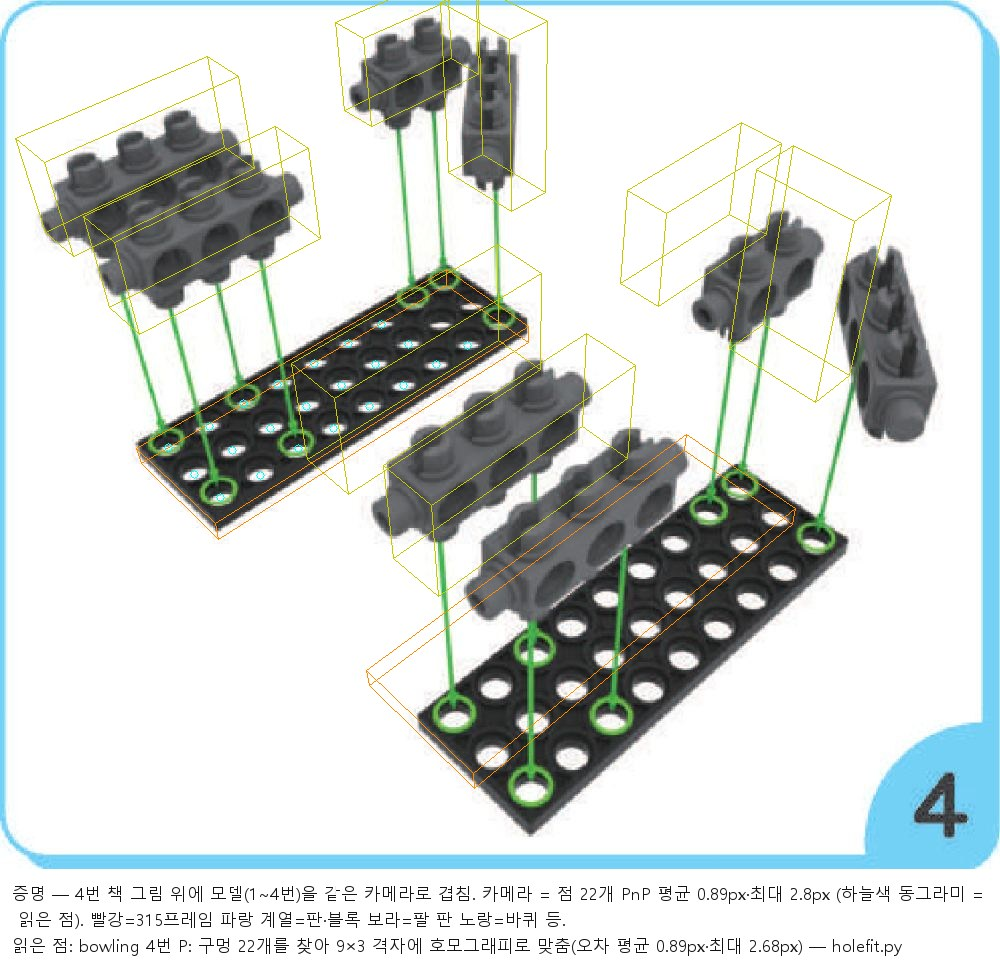
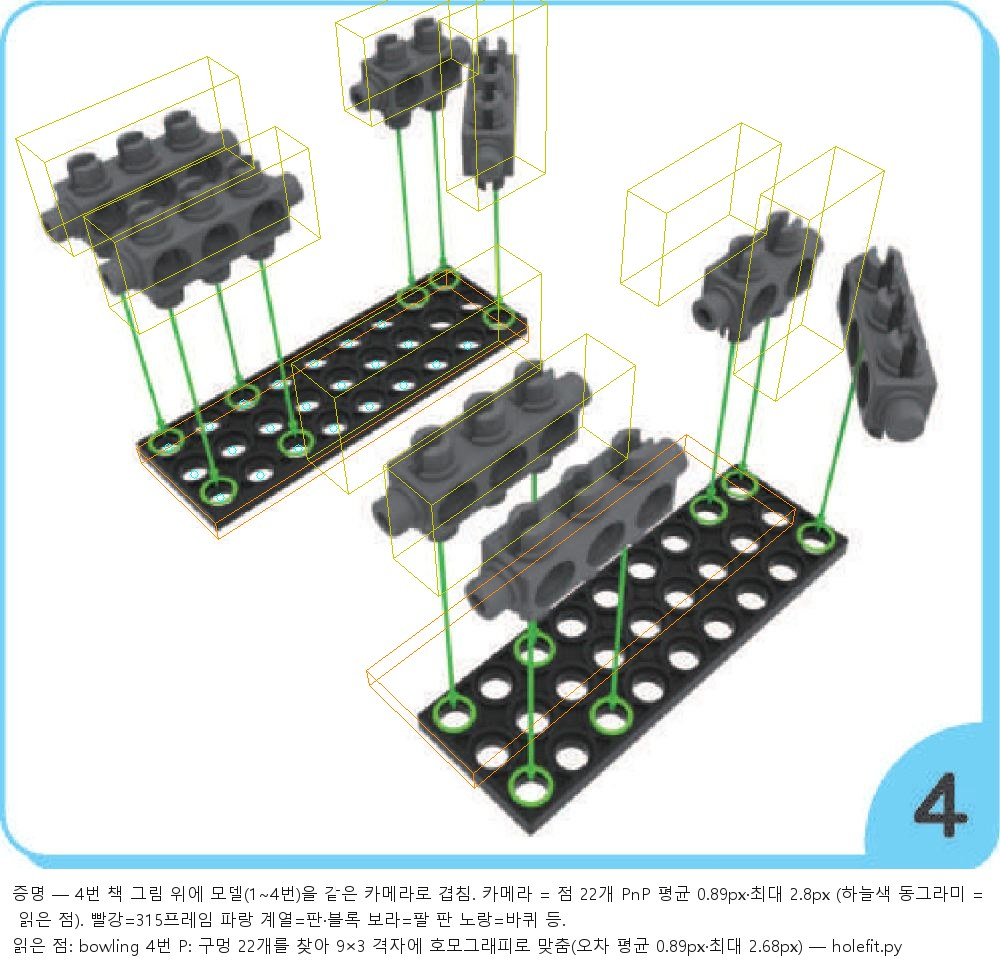
볼링머신 4번 판 끝 3단블록 방향 180° 수정

Changed region(s): [[0.713, 0.1545, 0.899, 0.4325], [0.434, 0.0, 0.558, 0.2163]]

diff --git a/public/design-assemblies.js b/public/design-assemblies.js
@@ -4158,12 +4158,12 @@ window.IVS_ASSEMBLIES = [
           { n: "3단블록", p: [-30.0, 10.0, -50.0], r: [90.0, 0.0, 0.0], dir: [0.0, 1.0, 0.0], marks: [[-40.0, 5.0, -50.0], [-30.0, 5.0, -50.0], [-20.0, 5.0, -50.0]], hover: 66 },
           { n: "3단블록", p: [-30.0, 10.0, -30.0], r: [90.0, 0.0, 0.0], dir: [0.0, 1.0, 0.0], marks: [[-40.0, 5.0, -30.0], [-30.0, 5.0, -30.0], [-20.0, 5.0, -30.0]], hover: 60 },
           { n: "2단블록", p: [34.4, 10.0, -50.0], r: [90.0, 0.0, 0.0], dir: [0.0, 1.0, 0.0], marks: [[30.0, 5.0, -50.0], [40.0, 5.0, -50.0]], hover: 62 },
-          { n: "3단블록", p: [50.0, 10.0, -30.0], r: [90.0, 0.0, 0.0], dir: [0.0, 1.0, 0.0], marks: [[40.0, 5.0, -30.0]], hover: 46 },
+          { n: "3단블록", p: [30.0, 10.0, -30.0], r: [-90.0, 0.0, 180.0], dir: [0.0, 1.0, 0.0], marks: [[40.0, 5.0, -30.0]], hover: 46 },
           { n: "39프레임", p: [0.0, 2.5, 40.0], r: [0.0, 0.0, 0.0] },
           { n: "3단블록", p: [-30.0, 10.0, 30.0], r: [90.0, 0.0, 0.0], dir: [0.0, 1.0, 0.0], marks: [[-40.0, 5.0, 30.0], [-30.0, 5.0, 30.0], [-20.0, 5.0, 30.0]], hover: 66 },
           { n: "3단블록", p: [-30.0, 10.0, 50.0], r: [90.0, 0.0, 0.0], dir: [0.0, 1.0, 0.0], marks: [[-40.0, 5.0, 50.0], [-30.0, 5.0, 50.0], [-20.0, 5.0, 50.0]], hover: 60 },
           { n: "2단블록", p: [34.4, 10.0, 30.0], r: [90.0, 0.0, 0.0], dir: [0.0, 1.0, 0.0], marks: [[30.0, 5.0, 30.0], [40.0, 5.0, 30.0]], hover: 62 },
-          { n: "3단블록", p: [50.0, 10.0, 50.0], r: [90.0, 0.0, 0.0], dir: [0.0, 1.0, 0.0], marks: [[40.0, 5.0, 50.0]], hover: 46 },
+          { n: "3단블록", p: [30.0, 10.0, 50.0], r: [-90.0, 0.0, 180.0], dir: [0.0, 1.0, 0.0], marks: [[40.0, 5.0, 50.0]], hover: 46 },
         ] },
         { note: "[교재 5] 4번 두 세트 위에 검은 39프레임을 한 장씩 얹어 블록 윗돌기에 끼워요.\n▣ 사용 부품: 39프레임 2", cam: {"theta": -0.54, "phi": 0.93}, camSrc: "eye", slot: 2, hideMade: {"1": "바닥(1~3번)", "2": "바닥(1~3번)", "3": "바닥(1~3번)"}, parts: [
           { n: "39프레임", p: [0.0, 17.5, -40.0], r: [0.0, 0.0, 0.0], recv: true, dir: [0.0, 1.0, 0.0], marks: [[-40.0, 20.0, -50.0], [-20.0, 20.0, -50.0], [-40.0, 20.0, -30.0], [-20.0, 20.0, -30.0], [30.0, 20.0, -50.0], [40.0, 20.0, -50.0], [40.0, 20.0, -30.0]], hover: 48 },

diff --git a/scripts/assembly-tools/bowling_entry.js b/scripts/assembly-tools/bowling_entry.js
@@ -44,12 +44,12 @@
           { n: "3단블록", p: [-30.0, 10.0, -50.0], r: [90.0, 0.0, 0.0], dir: [0.0, 1.0, 0.0], marks: [[-40.0, 5.0, -50.0], [-30.0, 5.0, -50.0], [-20.0, 5.0, -50.0]], hover: 66 },
           { n: "3단블록", p: [-30.0, 10.0, -30.0], r: [90.0, 0.0, 0.0], dir: [0.0, 1.0, 0.0], marks: [[-40.0, 5.0, -30.0], [-30.0, 5.0, -30.0], [-20.0, 5.0, -30.0]], hover: 60 },
           { n: "2단블록", p: [34.4, 10.0, -50.0], r: [90.0, 0.0, 0.0], dir: [0.0, 1.0, 0.0], marks: [[30.0, 5.0, -50.0], [40.0, 5.0, -50.0]], hover: 62 },
-          { n: "3단블록", p: [50.0, 10.0, -30.0], r: [90.0, 0.0, 0.0], dir: [0.0, 1.0, 0.0], marks: [[40.0, 5.0, -30.0]], hover: 46 },
+          { n: "3단블록", p: [30.0, 10.0, -30.0], r: [-90.0, 0.0, 180.0], dir: [0.0, 1.0, 0.0], marks: [[40.0, 5.0, -30.0]], hover: 46 },
           { n: "39프레임", p: [0.0, 2.5, 40.0], r: [0.0, 0.0, 0.0] },
           { n: "3단블록", p: [-30.0, 10.0, 30.0], r: [90.0, 0.0, 0.0], dir: [0.0, 1.0, 0.0], marks: [[-40.0, 5.0, 30.0], [-30.0, 5.0, 30.0], [-20.0, 5.0, 30.0]], hover: 66 },
           { n: "3단블록", p: [-30.0, 10.0, 50.0], r: [90.0, 0.0, 0.0], dir: [0.0, 1.0, 0.0], marks: [[-40.0, 5.0, 50.0], [-30.0, 5.0, 50.0], [-20.0, 5.0, 50.0]], hover: 60 },
           { n: "2단블록", p: [34.4, 10.0, 30.0], r: [90.0, 0.0, 0.0], dir: [0.0, 1.0, 0.0], marks: [[30.0, 5.0, 30.0], [40.0, 5.0, 30.0]], hover: 62 },
-          { n: "3단블록", p: [50.0, 10.0, 50.0], r: [90.0, 0.0, 0.0], dir: [0.0, 1.0, 0.0], marks: [[40.0, 5.0, 50.0]], hover: 46 },
+          { n: "3단블록", p: [30.0, 10.0, 50.0], r: [-90.0, 0.0, 180.0], dir: [0.0, 1.0, 0.0], marks: [[40.0, 5.0, 50.0]], hover: 46 },
         ] },
         { note: "[교재 5] 4번 두 세트 위에 검은 39프레임을 한 장씩 얹어 블록 윗돌기에 끼워요.\n▣ 사용 부품: 39프레임 2", cam: {"theta": -0.54, "phi": 0.93}, camSrc: "eye", slot: 2, hideMade: {"1": "바닥(1~3번)", "2": "바닥(1~3번)", "3": "바닥(1~3번)"}, parts: [
           { n: "39프레임", p: [0.0, 17.5, -40.0], r: [0.0, 0.0, 0.0], recv: true, dir: [0.0, 1.0, 0.0], marks: [[-40.0, 20.0, -50.0], [-20.0, 20.0, -50.0], [-40.0, 20.0, -30.0], [-20.0, 20.0, -30.0], [30.0, 20.0, -50.0], [40.0, 20.0, -50.0], [40.0, 20.0, -30.0]], hover: 48 },

diff --git a/scripts/assembly-tools/bowling.py b/scripts/assembly-tools/bowling.py
@@ -128,6 +128,7 @@ s4.kw["hideMade"] = {str(_n): "바닥(1~3번)" for _n in (1, 2, 3)}
 R_3B_COL = np.array([[1.0, 0.0, 0.0], [0.0, 0.0, -1.0], [0.0, 1.0, 0.0]])   # 3단블록: 긴 쪽 → +X(칸 방향; p5=칸1·p4=칸2·p3=칸3), 돌기 면이 아래(−Y)
 R_2B_COL = np.array([[1.0, 0.0, 0.0], [0.0, 0.0, -1.0], [0.0, 1.0, 0.0]])    # 2단블록: 긴 쪽 → +X(칸 방향), 돌기 면이 아래
 R_3B_ROW = np.array([[0.0, -1.0, 0.0], [0.0, 0.0, -1.0], [1.0, 0.0, 0.0]])   # 3단블록: 긴 쪽 → +Z(줄 방향), 돌기 면이 아래(−Y)
+R_3B_COL180 = np.array([[-1.0, 0.0, 0.0], [0.0, 0.0, -1.0], [0.0, -1.0, 0.0]]) @ np.diag([1.0, 1.0, 1.0])   # R_3B_COL 을 줄 축(Z) 둘레 180°
 PT4, BL4 = [], []
 for _zc in (-40.0, 40.0):
     _pl = s4.place("39프레임", np.eye(3), (0.0, 2.5, _zc)); PT4.append(_pl)
@@ -135,7 +136,7 @@ for _zc in (-40.0, 40.0):
     for _row, _hv in ((1, 66), (3, 60)):   # 책 4번 그림에서 돌기 줄이 칸 방향(오른쪽 위)으로 늘어서 있다 — 칸 방향으로 누운 3단블록 둘(줄1·줄3)
         _b.append(s4.attach("3단블록", R_3B_COL, {"p5": (_pl, "h1_%d" % _row), "p4": (_pl, "h2_%d" % _row), "p3": (_pl, "h3_%d" % _row)}, dir=[0, 1, 0], hover=_hv))
     _b.append(s4.attach("2단블록", R_2B_COL, {"p3": (_pl, "h8_1"), "p4": (_pl, "h9_1")}, dir=[0, 1, 0], hover=62))
-    _b.append(s4.attach("3단블록", R_3B_COL, {"p5": (_pl, "h9_3")}, dir=[0, 1, 0], hover=46))   # 칸 방향으로 누운 3단블록: 돌기 p5 만 칸9 줄3, p4·p3 은 판 끝 밖(사용자 지시 2026-10-25: 2단 → 3단, 결합 방향 수정)   
+    _b.append(s4.attach("3단블록", R_3B_COL180, {"p5": (_pl, "h9_3")}, dir=[0, 1, 0], hover=46))   # 판 끝 블록 방향만 180° 돌림(사용자 지시 2026-10-25)   # 칸 방향으로 누운 3단블록: 돌기 p5 만 칸9 줄3, p4·p3 은 판 끝 밖(사용자 지시 2026-10-25: 2단 → 3단, 결합 방향 수정)   
     BL4.append(_b)
 A.steps[3].cam = (-0.58, 0.83, False, None, None, None); A.steps[3].camSrc = "eye"   # holefit 위 판 9×3 → axes_fit 오차 0.76px(27점, roll −0.9°)
 
